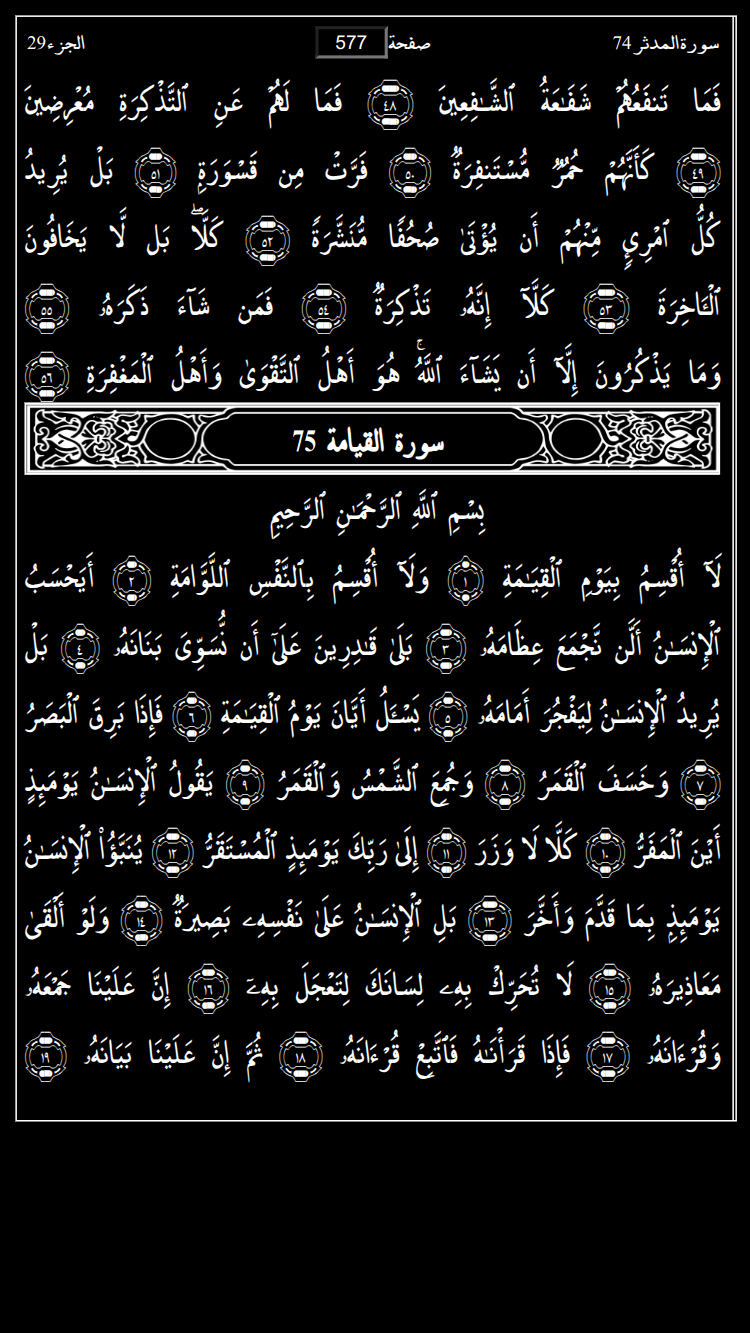
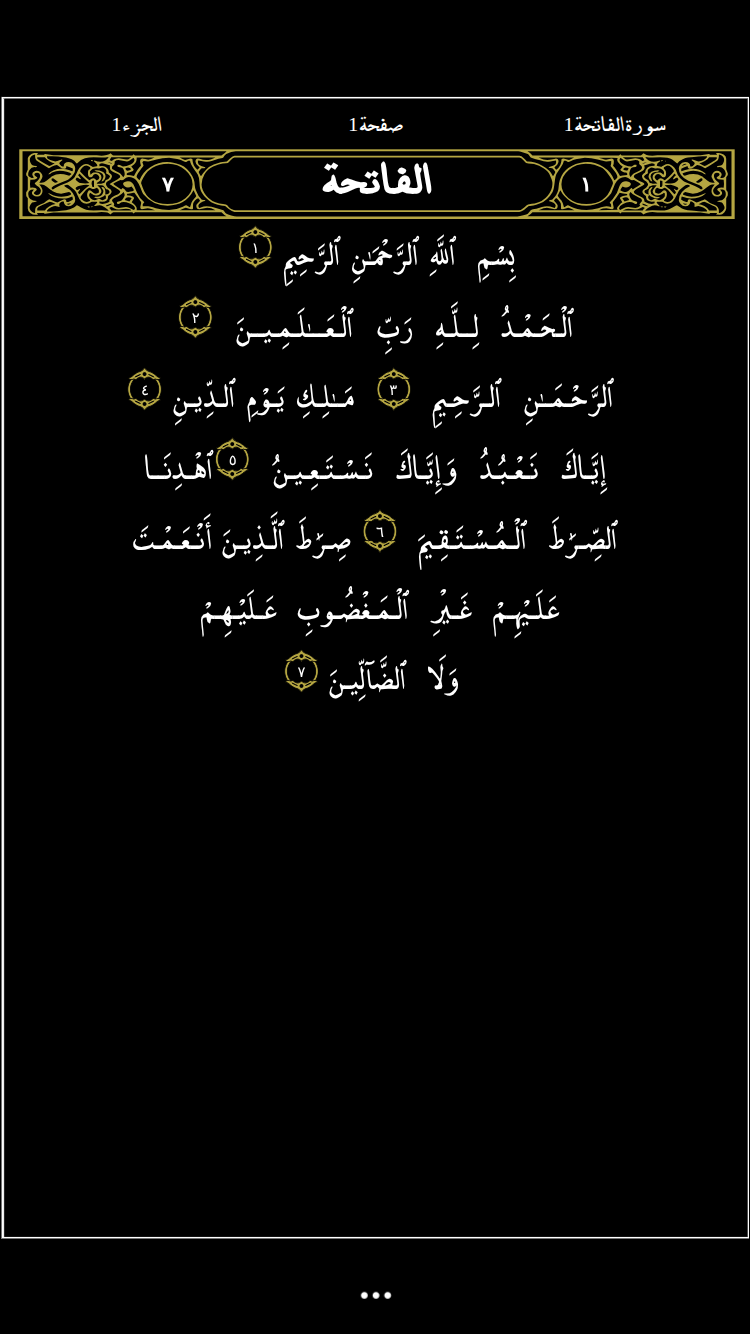
new ic and webpack cleaning

Changed region(s): [[0.0, 0.0, 1.0, 0.9227], [0.4907, 0.9535, 0.5213, 0.9842], [0.0307, 0.0, 0.0613, 0.0308]]

diff --git a/src/ui_web/webpack.config.js b/src/ui_web/webpack.config.js
@@ -1,7 +1,9 @@
+const fs                = require("fs");
 const path              = require("path");
 const webpack           = require("webpack");
 const HtmlWebpackPlugin = require("html-webpack-plugin");
 const CopyWebpackPlugin = require("copy-webpack-plugin");
+const child_process     = require('child_process');
 const pkg               = require("./package.json");
 
 // A fresh, unique value on every build. The service worker (sw.js) fetches
@@ -29,18 +31,83 @@ class WriteVersionFilePlugin {
     }
 }
 
+// Helper to execute an external program. Arguments are passed as an array
+// and no shell is involved, so paths containing spaces or shell
+// metacharacters are handled correctly.
+function run(cmd, args) {
+    console.log("$", [cmd, ...args].join(" "));
+    try {
+        const out = child_process.execFileSync(cmd, args)
+              .toString().trim();
+        if (out) console.log(out);
+    } catch (error) {
+        console.error(error.message);
+    }
+}
+
 // The project's top-level Makefile drives the whole build (tty + web);
 // this config only handles the JS/static-asset half of it and writes
 // straight into the same build/web/ directory the Makefile's emcc rule
 // builds quran.wasm into (see ../../Makefile's `build/web/quran.wasm`
 // target). The two are independent build steps sharing one output
 // directory, so `clean` is off here -- webpack must never delete a file
-// it didn't put there itself. icon.png/icon144.png are a third such
-// independent step (see the Makefile's ICONS section, which renders them
-// straight from public/res/ic_base.svg) -- that's why ic_base.svg itself
-// is excluded from the copy step below rather than shipped alongside the
-// PNGs it produces.
+// it didn't put there itself.
 const BUILD_WEB_DIR = path.resolve(__dirname, "../../build/web");
+
+// Renders any missing icon PNGs from ic_base.svg (via ImageMagick) and
+// writes manifest.webmanifest into BUILD_WEB_DIR.
+class PwaManifestPlugin {
+    apply(compiler) {
+        compiler.hooks.compile.tap("PwaManifestPlugin", () => this.write());
+    }
+
+    write() {
+        const ic_base  = path.resolve(__dirname, "public/res/ic_base.svg");
+        const sizes    = [32, 96, 128, 192, 256, 384, 512];
+        const maskable = 512;
+
+        const mkic = s => ({
+            src: s === 32 ? `res/icon.png` : `res/icon_${s}x${s}.png`,
+            sizes: `${s}x${s}`,
+            type: "image/png"
+        });
+
+        const icons = sizes.map(mkic);
+
+        fs.mkdirSync(path.join(BUILD_WEB_DIR, "res"), { recursive: true });
+
+        for (const ic of icons) {
+            const out = path.join(BUILD_WEB_DIR, ic.src);
+            if (fs.existsSync(out)) continue;
+            run("magick", [ic_base, "-scale", ic.sizes, out]);
+        }
+
+        icons.push({
+            ...mkic(maskable),
+            purpose: "maskable"
+        });
+
+        const manifest = {
+            name:             "Quran",
+            short_name:       "Quran",
+            display:          "standalone",
+            start_url:        ".",
+            description:      "The holy Quran, by Naheel",
+            background_color: "black",
+            screenshots: [
+                {
+                    src: "res/screenshot.png",
+                    sizes: "750x1334",
+                    type: "image/png"
+                }
+            ],
+            icons
+        };
+
+        fs.writeFileSync(path.join(BUILD_WEB_DIR, "manifest.webmanifest"),
+                         JSON.stringify(manifest, null, 2));
+    }
+}
 
 module.exports = {
     entry: "./src/app.js",
@@ -64,22 +131,22 @@ module.exports = {
         }),
 
         // Everything the app needs that isn't authored as a JS module and
-        // isn't quran.wasm or the icon PNGs (all built separately, see
-        // above): style.css sits at the site root next to index.html; the
-        // manifest, fonts, remaining SVG art and the self-hosted tafsir
-        // edition list live under public/res and are copied verbatim into
-        // build/web/res. sw.js runs in its own worker scope and is loaded
-        // directly by the browser from the site root, so it's copied
-        // there too.
+        // isn't quran.wasm (built separately, see above) or the icon PNGs
+        // (rendered by PwaManifestPlugin): style.css sits at the site
+        // root next to index.html; the manifest, fonts, remaining SVG art
+        // and the self-hosted tafsir edition list live under public/res
+        // and are copied verbatim into build/web/res. sw.js runs in its
+        // own worker scope and is loaded directly by the browser from the
+        // site root, so it's copied there too.
         new CopyWebpackPlugin({
             patterns: [
                 { from: "public/style.css" },
                 {
                     from: "public/res",
                     to: "res",
-                    // ic_base.svg is a build *input* (see the Makefile's
-                    // ICONS section), not a shipped asset -- everything
-                    // else under public/res still copies through as-is.
+                    // ic_base.svg is a build *input* (see PwaManifestPlugin),
+                    // not a shipped asset -- everything else under
+                    // public/res still copies through as-is.
                     globOptions: { ignore: ["**/ic_base.svg"] },
                 },
                 {
@@ -92,6 +159,8 @@ module.exports = {
         }),
 
         new WriteVersionFilePlugin(),
+
+        new PwaManifestPlugin(),
     ],
 
     devtool: "source-map",

diff --git a/src/ui_web/public/index.html b/src/ui_web/public/index.html
@@ -3,7 +3,7 @@
     <head>
         <meta charset="UTF-8">
         <meta name="viewport" content="width=device-width, initial-scale=1.0, maximum-scale=5.0, user-scalable=yes">
-        <link rel="manifest" href="res/manifest.webmanifest">
+        <link rel="manifest" href="manifest.webmanifest">
         <link rel="icon" href="res/icon.png">
         <link rel="stylesheet" href="style.css">
         <meta name="description" content="The holy Quran">

diff --git a/src/ui_web/public/sw.js b/src/ui_web/public/sw.js
@@ -13,8 +13,8 @@ const cacheAssets = [
     "res/header.svg",
     "res/aya.svg",
     "res/icon.png",
-    "res/manifest.webmanifest",
     "res/editions.json",
+    "manifest.webmanifest",
 ];
 
 const checkPeriod = 1000 * 60 * 10;

diff --git a/src/quran_printer.c b/src/quran_printer.c
@@ -99,6 +99,8 @@ static size_t center_swprintf(int width, wchar_t *buf, size_t size,
 #undef CENTER_FMT
 }
 
+// TODO: shouldn't add after between لا or even if there're harakat or hamza in between
+
 static bool can_add_tatweel(wchar_t c, wchar_t *next_ptr) {
     if (next_ptr != NULL) {
         // false if at the end of the word
